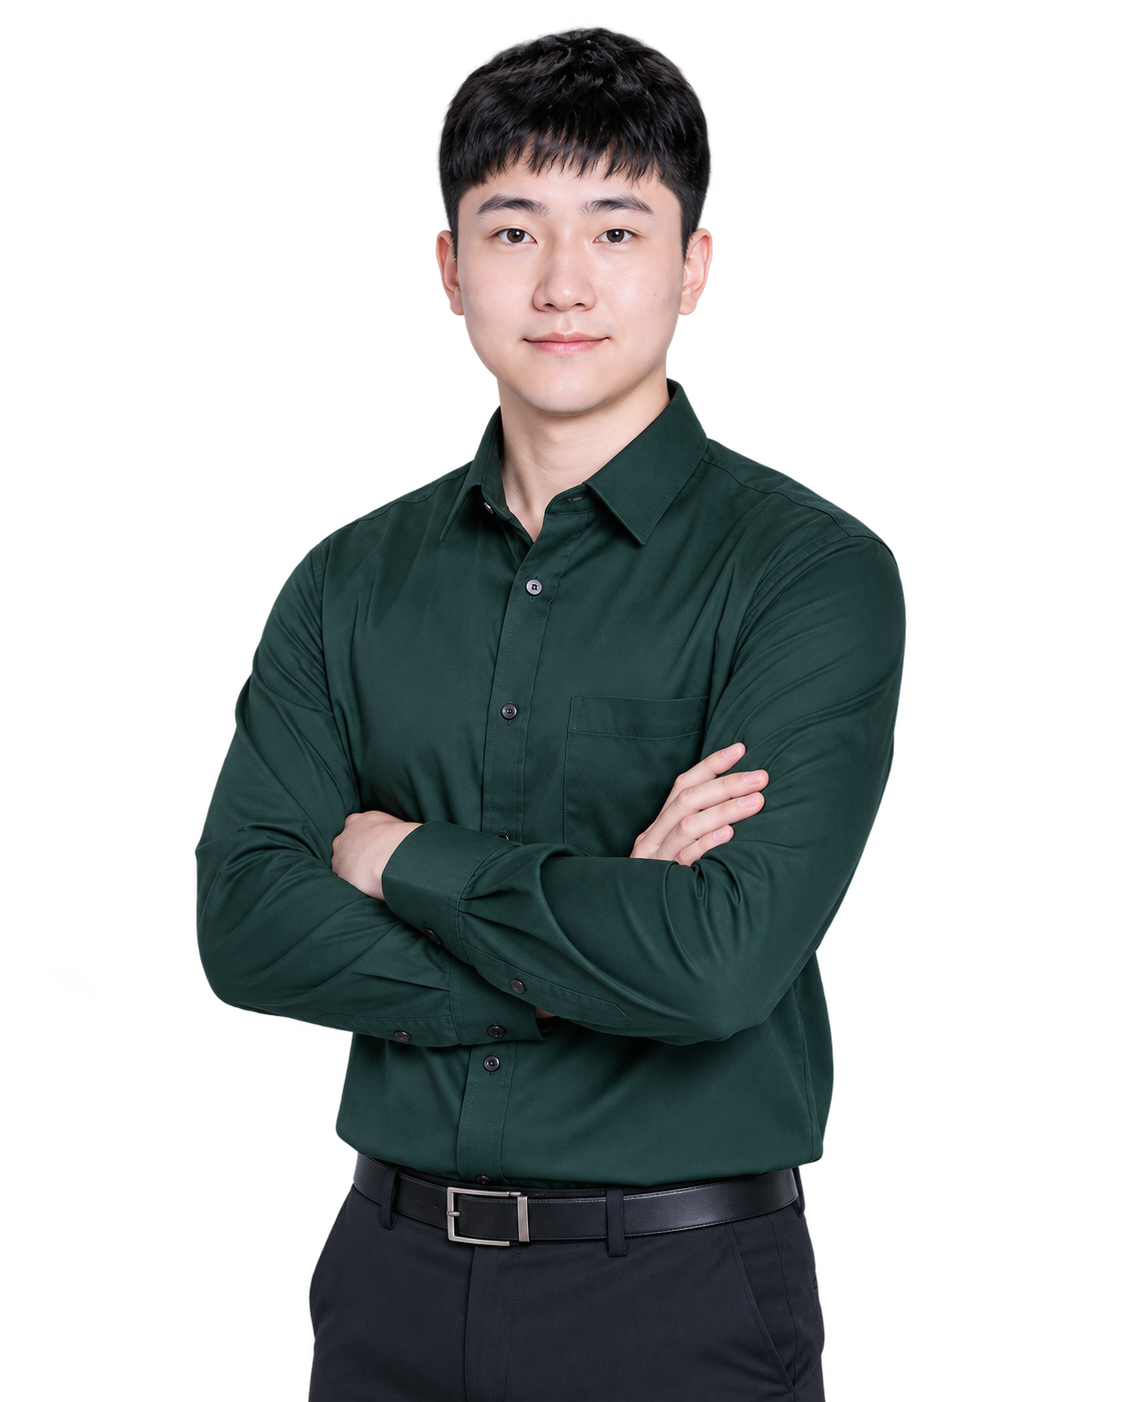
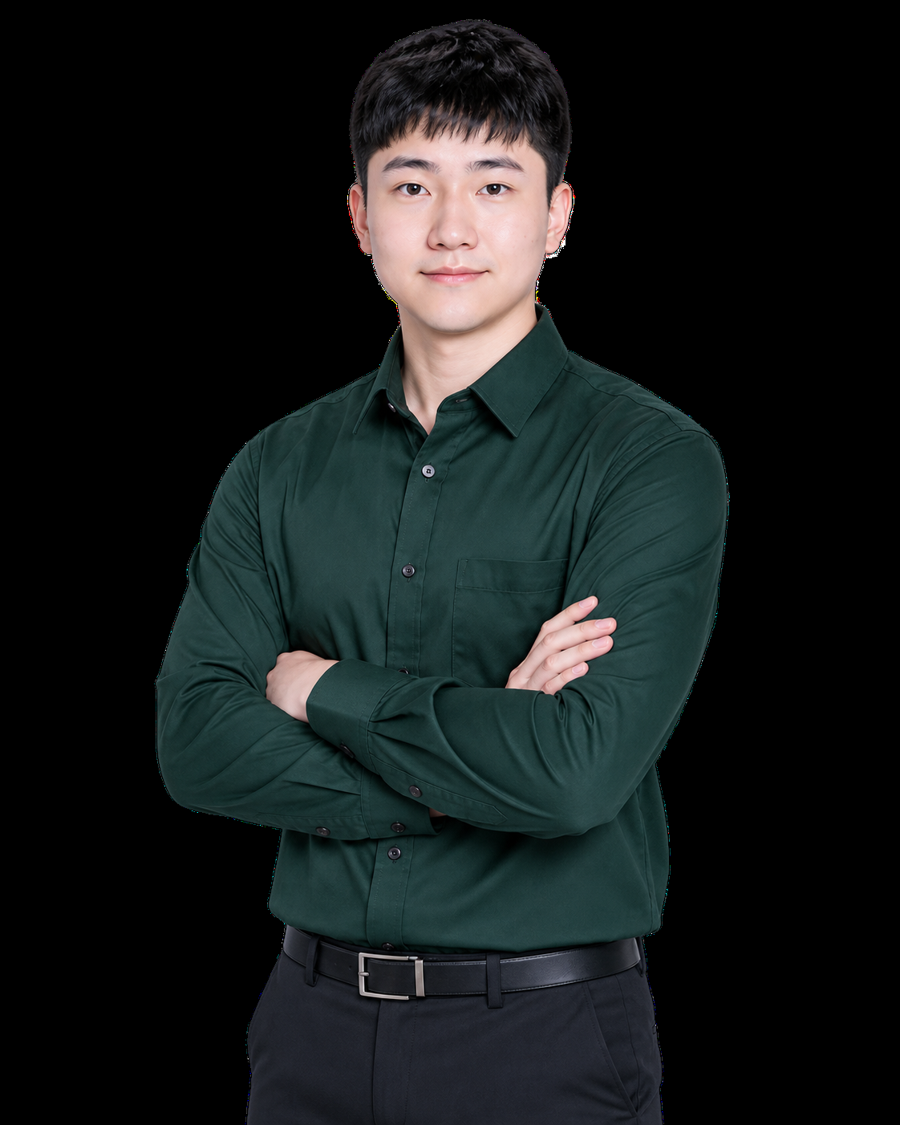
Optimize hero assets and lock orientation QA.
Compress brand images to WebP/PNG, keep landscape copy readable at 16px, and gate the device matrix so phones and landscape stay clean.

diff --git a/index.html b/index.html
@@ -2,7 +2,7 @@
 <html lang="en-PH">
   <head>
     <meta charset="UTF-8" />
-    <meta name="viewport" content="width=device-width, initial-scale=1.0" />
+    <meta name="viewport" content="width=device-width, initial-scale=1.0, viewport-fit=cover" />
 
     <title>Malcolm Cuady | Lead Full-Stack Developer Manila</title>
     <meta
@@ -24,6 +24,7 @@
     <meta name="geo.placename" content="Marikina City" />
 
     <link rel="canonical" href="https://mjcuady.dev/" />
+    <link rel="preload" as="image" href="/brand/portrait.webp" fetchpriority="high" />
     <link rel="alternate" hreflang="en-PH" href="https://mjcuady.dev/" />
     <link rel="alternate" hreflang="en" href="https://mjcuady.dev/" />
     <link rel="alternate" hreflang="x-default" href="https://mjcuady.dev/" />

diff --git a/src/components/portfolio/ProfileCard.jsx b/src/components/portfolio/ProfileCard.jsx
@@ -28,10 +28,10 @@ export default function ProfileCard() {
       </div>
       <div className="hero-portrait profile-card__shot">
         <img
-          src="/brand/portrait.png"
+          src="/brand/portrait.webp"
           alt="Portrait of Malcolm Joaquin Cuady"
-          width={1122}
-          height={1402}
+          width={900}
+          height={1125}
           fetchPriority="high"
           decoding="async"
         />

diff --git a/src/index.css b/src/index.css
@@ -3008,8 +3008,8 @@ html.dark .profile-roles li {
   }
   .hero-bento-root .hero-hook {
     margin-top: 0.4rem;
-    font-size: 0.92rem;
-    line-height: 1.4;
+    font-size: 1rem;
+    line-height: 1.45;
   }
   .hero-bento-root .hero-cta {
     margin-top: 0.55rem;
